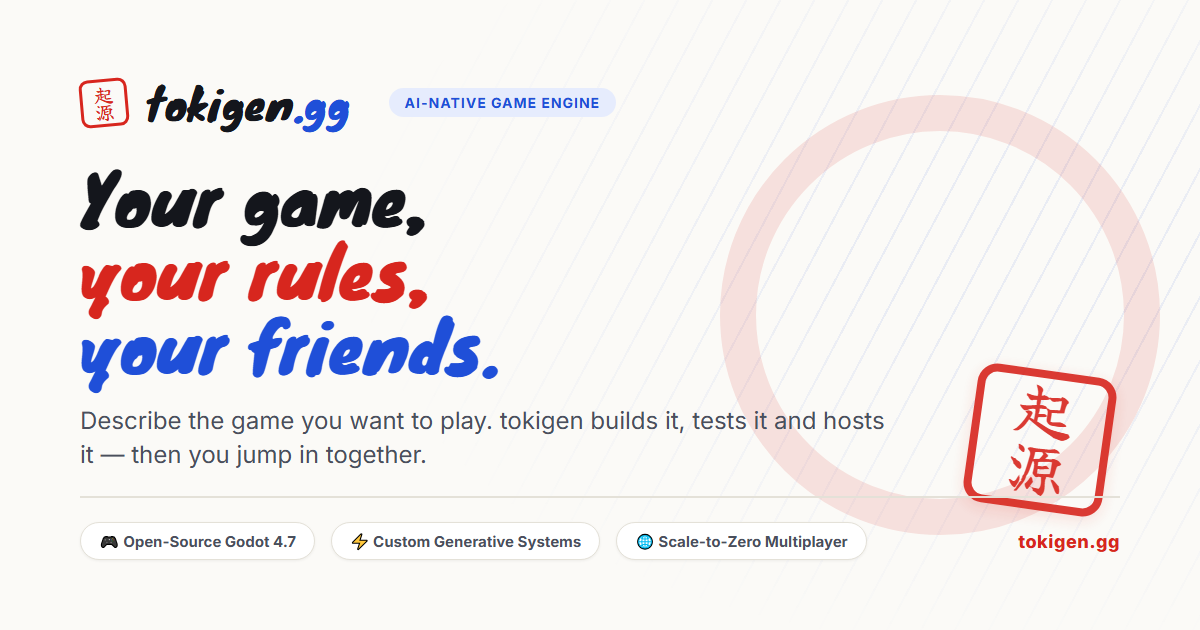
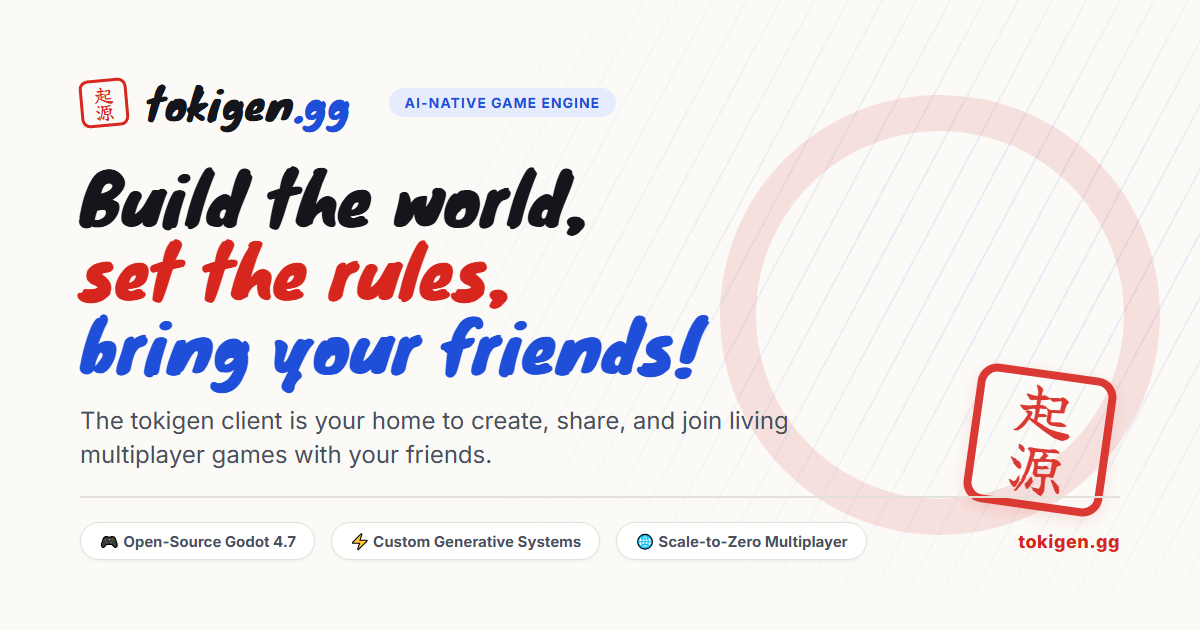
feat(copy): update tagline to 'Build the world, set the rules, bring your friends!' and emphasize client creation/sharing

Changed region(s): [[0.0617, 0.2714, 0.74, 0.754]]

diff --git a/src/i18n.ts b/src/i18n.ts
@@ -17,10 +17,10 @@ const STORAGE_KEY = 'tokigen_lang';
 type Dict = Record<string, string>;
 
 const en: Dict = {
-  'meta.title.home': 'tokigen.gg — Your game, your rules, your friends',
+  'meta.title.home': 'tokigen.gg — Build the world, set the rules, bring your friends!',
   'meta.title.studio': 'Web Studio (under construction) — tokigen.gg',
   'meta.description':
-    'Describe the game you want to play. tokigen builds it, tests it and hosts it — then you jump in with your friends.',
+    'The tokigen client is your home to create, share, and join living multiplayer games. Build the world, set the rules, bring your friends!',
 
   'nav.skip': 'Skip to content',
   'nav.label': 'Primary',
@@ -37,11 +37,11 @@ const en: Dict = {
   'brand.home': 'tokigen.gg home',
 
   'hero.eyebrow': 'AI-native multiplayer game creation',
-  'hero.line1': 'Your game,',
-  'hero.line2': 'your rules,',
-  'hero.line3': 'your friends.',
+  'hero.line1': 'Build the world,',
+  'hero.line2': 'set the rules,',
+  'hero.line3': 'bring your friends!',
   'hero.lead':
-    'Describe the game you want to play. tokigen builds it, tests it and hosts it — then you jump in together.',
+    'The tokigen client is your home to create custom games, share room codes, and jump into living multiplayer worlds with your friends.',
   'hero.cta': 'Get Started Now',
   'hero.secondary': 'See how it works',
   'hero.stampLabel': 'Kigen — origin',
@@ -52,7 +52,7 @@ const en: Dict = {
     'An open-source client, our own generative systems and multiplayer servers — three pillars working together.',
   'how.client.title': 'Open-source client',
   'how.client.body':
-    'The tokigen launcher is built on Godot Engine 4 and open-source tech like Jolt Physics, Terrain3D and LimboAI, released under the MIT licence. Your worlds are never locked in.',
+    'The tokigen client is built on Godot Engine 4 and open-source tech like Jolt Physics, Terrain3D, and LimboAI (MIT). Use it to create games with AI, share room codes, and join your friends.',
   'how.gen.title': 'Custom generative systems',
   'how.gen.body':
     'Describe it in your own words. Our generative pipeline designs the game, builds the world procedurally, play-tests it with AI bots and packages it for the launcher.',
@@ -97,7 +97,7 @@ const en: Dict = {
 
   'download.eyebrow': 'Download',
   'download.title': 'Get the tokigen launcher',
-  'download.sub': 'Free. Install once and join any game your friends create.',
+  'download.sub': 'Free. Install once to create games, share room codes, and join your friends.',
   'download.recommended': 'Recommended',
   'download.button': 'Download',
   'download.win.meta': 'Windows 10 / 11 · 64-bit',
@@ -108,7 +108,7 @@ const en: Dict = {
   'community.title': 'Join the community',
   'community.body': 'Share your games, find players and help shape tokigen.',
 
-  'footer.tagline': 'Your game, your rules, your friends.',
+  'footer.tagline': 'Build the world, set the rules, bring your friends!',
   'footer.credit': 'Built with Godot Engine and open source.',
 
   'studio.eyebrow': 'Web Studio',
@@ -127,10 +127,10 @@ const en: Dict = {
 };
 
 const ptBR: Dict = {
-  'meta.title.home': 'tokigen.gg — Seu jogo, suas regras, seus amigos',
+  'meta.title.home': 'tokigen.gg — Construa o mundo, defina as regras, traga seus amigos!',
   'meta.title.studio': 'Estúdio Web (em construção) — tokigen.gg',
   'meta.description':
-    'Descreva o jogo que você quer jogar. O tokigen cria, testa e hospeda — depois é só entrar com seus amigos.',
+    'O cliente tokigen é o seu lugar para criar, compartilhar e jogar mundos multiplayer vivos. Construa o mundo, defina as regras, traga seus amigos!',
 
   'nav.skip': 'Pular para o conteúdo',
   'nav.label': 'Principal',
@@ -147,11 +147,11 @@ const ptBR: Dict = {
   'brand.home': 'Página inicial do tokigen.gg',
 
   'hero.eyebrow': 'Criação de jogos multiplayer com IA',
-  'hero.line1': 'Seu jogo,',
-  'hero.line2': 'suas regras,',
-  'hero.line3': 'seus amigos.',
+  'hero.line1': 'Construa o mundo,',
+  'hero.line2': 'defina as regras,',
+  'hero.line3': 'traga seus amigos!',
   'hero.lead':
-    'Descreva o jogo que você quer jogar. O tokigen cria, testa e hospeda — depois é só entrar com a galera.',
+    'O cliente tokigen é o seu lugar para criar jogos personalizados, compartilhar códigos de sala e jogar mundos multiplayer vivos com seus amigos.',
   'hero.cta': 'Comece agora',
   'hero.secondary': 'Veja como funciona',
   'hero.stampLabel': 'Kigen — origem',
@@ -162,7 +162,7 @@ const ptBR: Dict = {
     'Um cliente de código aberto, sistemas generativos próprios e servidores multiplayer — três pilares trabalhando juntos.',
   'how.client.title': 'Cliente de código aberto',
   'how.client.body':
-    'O launcher do tokigen é construído sobre o Godot Engine 4 e tecnologias abertas como Jolt Physics, Terrain3D e LimboAI, com licença MIT. Seus mundos nunca ficam presos.',
+    'O cliente tokigen é construído sobre o Godot Engine 4 e tecnologias abertas como Jolt Physics, Terrain3D e LimboAI (MIT). Use-o para criar jogos com IA, compartilhar códigos e entrar com a galera.',
   'how.gen.title': 'Sistemas generativos próprios',
   'how.gen.body':
     'Descreva com suas palavras. Nosso pipeline generativo projeta o jogo, constrói o mundo de forma procedural, testa tudo com bots de IA e empacota para o launcher.',
@@ -207,7 +207,7 @@ const ptBR: Dict = {
 
   'download.eyebrow': 'Baixar',
   'download.title': 'Baixe o launcher do tokigen',
-  'download.sub': 'Grátis. Instale uma vez e entre em qualquer jogo criado pelos seus amigos.',
+  'download.sub': 'Grátis. Instale uma vez para criar jogos, compartilhar códigos de sala e jogar com amigos.',
   'download.recommended': 'Recomendado',
   'download.button': 'Baixar',
   'download.win.meta': 'Windows 10 / 11 · 64 bits',
@@ -218,7 +218,7 @@ const ptBR: Dict = {
   'community.title': 'Entre na comunidade',
   'community.body': 'Compartilhe seus jogos, encontre jogadores e ajude a moldar o tokigen.',
 
-  'footer.tagline': 'Seu jogo, suas regras, seus amigos.',
+  'footer.tagline': 'Construa o mundo, defina as regras, traga seus amigos!',
   'footer.credit': 'Feito com Godot Engine e código aberto.',
 
   'studio.eyebrow': 'Estúdio Web',
@@ -237,10 +237,10 @@ const ptBR: Dict = {
 };
 
 const ja: Dict = {
-  'meta.title.home': 'tokigen.gg — 君のゲーム、君のルール、君の仲間',
+  'meta.title.home': 'tokigen.gg — 世界を創り、ルールを決め、仲間を呼ぼう！',
   'meta.title.studio': 'Webスタジオ（工事中）— tokigen.gg',
   'meta.description':
-    '遊びたいゲームを言葉で伝えるだけ。tokigenがゲームを作り、テストし、サーバーまで用意します。あとは仲間と飛び込もう。',
+    'tokigenクライアントは、マルチプレイヤーゲームを創り、共有し、参加できるプラットフォームです。世界を創り、ルールを決め、仲間を呼ぼう！',
 
   'nav.skip': '本文へスキップ',
   'nav.label': 'メインメニュー',
@@ -257,11 +257,11 @@ const ja: Dict = {
   'brand.home': 'tokigen.gg ホーム',
 
   'hero.eyebrow': 'AIネイティブなマルチプレイヤーゲーム制作',
-  'hero.line1': '君のゲーム、',
-  'hero.line2': '君のルール、',
-  'hero.line3': '君の仲間。',
+  'hero.line1': '世界を創り、',
+  'hero.line2': 'ルールを決め、',
+  'hero.line3': '仲間を呼ぼう！',
   'hero.lead':
-    '遊びたいゲームを言葉で伝えるだけ。tokigenがゲームを作り、テストし、サーバーまで用意します。あとは仲間と一緒に飛び込もう。',
+    'tokigenクライアントは、AIと共に独自のゲームを創り、ルームコードで共有し、友達とマルチプレイヤーの世界へ飛び込めるオールインワン環境です。',
   'hero.cta': '今すぐ始める',
   'hero.secondary': '仕組みを見る',
   'hero.stampLabel': '起源',
@@ -271,7 +271,7 @@ const ja: Dict = {
   'how.sub': 'オープンソースのクライアント、独自の生成システム、そしてマルチプレイヤーサーバー。3つの柱で動いています。',
   'how.client.title': 'オープンソースのクライアント',
   'how.client.body':
-    'tokigenランチャーはGodot Engine 4をはじめ、Jolt Physics、Terrain3D、LimboAIなどのオープンソース技術で作られ、MITライセンスで公開されています。作った世界が囲い込まれることはありません。',
+    'tokigenクライアントはGodot Engine 4をはじめ、Jolt Physics、Terrain3D、LimboAI（MITライセンス）で構築。ゲームの制作から、ルームコードの共有、仲間との参加までこれひとつで行えます。',
   'how.gen.title': '独自の生成システム',
   'how.gen.body':
     '普段の言葉で説明するだけ。独自の生成パイプラインがゲームを設計し、ワールドをプロシージャルに構築し、AIボットでプレイテストしてから、ランチャー用にパッケージします。',
@@ -315,7 +315,7 @@ const ja: Dict = {
 
   'download.eyebrow': 'ダウンロード',
   'download.title': 'tokigenランチャーを入手',
-  'download.sub': '無料。一度インストールすれば、仲間が作ったどんなゲームにも参加できます。',
+  'download.sub': '無料。一度インストールすれば、ゲームの制作、共有、仲間とのプレイがすべて可能になります。',
   'download.recommended': 'おすすめ',
   'download.button': 'ダウンロード',
   'download.win.meta': 'Windows 10 / 11 · 64ビット',
@@ -326,7 +326,7 @@ const ja: Dict = {
   'community.title': 'コミュニティに参加',
   'community.body': 'ゲームを共有して、仲間を見つけて、tokigenを一緒に作ろう。',
 
-  'footer.tagline': '君のゲーム、君のルール、君の仲間。',
+  'footer.tagline': '世界を創り、ルールを決め、仲間を呼ぼう！',
   'footer.credit': 'Godot Engineとオープンソースで構築。',
 
   'studio.eyebrow': 'Webスタジオ',

diff --git a/index.html b/index.html
@@ -13,10 +13,10 @@
       } catch (e) {}
     </script>
     <meta name="viewport" content="width=device-width, initial-scale=1.0" />
-    <title>tokigen.gg — Your game, your rules, your friends</title>
+    <title>tokigen.gg — Build the world, set the rules, bring your friends!</title>
     <meta
       name="description"
-      content="Describe the game you want to play. tokigen builds it, tests it and hosts it — then you jump in with your friends."
+      content="The tokigen client is your home to create, share, and join living multiplayer games. Build the world, set the rules, bring your friends!"
     />
     <meta name="theme-color" media="(prefers-color-scheme: light)" content="#fbfaf7" />
     <meta name="theme-color" media="(prefers-color-scheme: dark)" content="#0e1016" />
@@ -25,24 +25,24 @@
     <link rel="canonical" href="%VITE_SITE_URL%" />
     <meta property="og:type" content="website" />
     <meta property="og:site_name" content="tokigen.gg" />
-    <meta property="og:title" content="tokigen.gg — Your game, your rules, your friends" />
+    <meta property="og:title" content="tokigen.gg — Build the world, set the rules, bring your friends!" />
     <meta
       property="og:description"
-      content="Describe the game you want to play. tokigen builds it, tests it and hosts it — then you jump in with your friends."
+      content="The tokigen client is your home to create, share, and join living multiplayer games. Build the world, set the rules, bring your friends!"
     />
     <meta property="og:url" content="%VITE_SITE_URL%" />
     <meta property="og:image" content="%VITE_SITE_URL%og-image.png" />
     <meta property="og:image:width" content="1200" />
     <meta property="og:image:height" content="630" />
-    <meta property="og:image:alt" content="tokigen.gg — Your game, your rules, your friends" />
+    <meta property="og:image:alt" content="tokigen.gg — Build the world, set the rules, bring your friends!" />
     <meta property="og:locale" content="en_GB" />
     <meta property="og:locale:alternate" content="pt_BR" />
     <meta property="og:locale:alternate" content="ja_JP" />
     <meta name="twitter:card" content="summary_large_image" />
-    <meta name="twitter:title" content="tokigen.gg — Your game, your rules, your friends" />
+    <meta name="twitter:title" content="tokigen.gg — Build the world, set the rules, bring your friends!" />
     <meta
       name="twitter:description"
-      content="Describe the game you want to play. tokigen builds it, tests it and hosts it — then you jump in with your friends."
+      content="The tokigen client is your home to create, share, and join living multiplayer games. Build the world, set the rules, bring your friends!"
     />
     <meta name="twitter:image" content="%VITE_SITE_URL%og-image.png" />
 
@@ -114,12 +114,12 @@
         <div class="container hero-inner">
           <p class="eyebrow" data-i18n="hero.eyebrow">AI-native multiplayer game creation</p>
           <h1 class="brush-title hero-title">
-            <span class="hero-line" data-i18n="hero.line1">Your game,</span>
-            <span class="hero-line hero-line-red" data-i18n="hero.line2">your rules,</span>
-            <span class="hero-line hero-line-blue" data-i18n="hero.line3">your friends.</span>
+            <span class="hero-line" data-i18n="hero.line1">Build the world,</span>
+            <span class="hero-line hero-line-red" data-i18n="hero.line2">set the rules,</span>
+            <span class="hero-line hero-line-blue" data-i18n="hero.line3">bring your friends!</span>
           </h1>
           <p class="hero-lead" data-i18n="hero.lead">
-            Describe the game you want to play. tokigen builds it, tests it and hosts it — then you jump in together.
+            The tokigen client is your home to create custom games, share room codes, and jump into living multiplayer worlds with your friends.
           </p>
           <div class="hero-actions">
             <a href="#download" id="cta-get-started" class="btn btn-cta btn-lg" data-i18n="hero.cta">Get Started Now</a>
@@ -148,8 +148,8 @@
               <span class="kanji-badge kanji-blue" aria-hidden="true">開</span>
               <h3 data-i18n="how.client.title">Open-source client</h3>
               <p data-i18n="how.client.body">
-                The tokigen launcher is built on Godot Engine 4 and open-source tech like Jolt Physics, Terrain3D and
-                LimboAI, released under the MIT licence. Your worlds are never locked in.
+                The tokigen client is built on Godot Engine 4 and open-source tech like Jolt Physics, Terrain3D, and
+                LimboAI (MIT). Use it to create games with AI, share room codes, and join your friends.
               </p>
               <ul class="chips">
                 <li>Godot 4.7</li>
@@ -375,7 +375,7 @@
           <span class="hanko hanko-sm" aria-hidden="true"><span>起源</span></span>
           <div>
             <span class="wordmark">tokigen<span class="wordmark-tld">.gg</span></span>
-            <p data-i18n="footer.tagline">Your game, your rules, your friends.</p>
+            <p data-i18n="footer.tagline">Build the world, set the rules, bring your friends!</p>
           </div>
         </div>
         <nav class="footer-links" aria-label="Footer">

diff --git a/tests/web_ui.spec.ts b/tests/web_ui.spec.ts
@@ -3,14 +3,19 @@ import { test, expect } from '@playwright/test';
 test.describe('tokigen.gg Web Suite', () => {
   test('Landing page loads with tokigen branding and hero copy', async ({ page }) => {
     await page.goto('./');
-    await expect(page).toHaveTitle(/tokigen\.gg — Your game, your rules, your friends/i);
+    await expect(page).toHaveTitle(/tokigen\.gg — Build the world, set the rules, bring your friends!/i);
 
     // Hero headline lines
     const heroTitle = page.locator('.hero-title');
     await expect(heroTitle).toBeVisible();
-    await expect(heroTitle).toContainText('Your game,');
-    await expect(heroTitle).toContainText('your rules,');
-    await expect(heroTitle).toContainText('your friends.');
+    await expect(heroTitle).toContainText('Build the world,');
+    await expect(heroTitle).toContainText('set the rules,');
+    await expect(heroTitle).toContainText('bring your friends!');
+
+    // Hero lead text mentions creating, sharing and joining
+    const heroLead = page.locator('.hero-lead');
+    await expect(heroLead).toContainText('create custom games');
+    await expect(heroLead).toContainText('share room codes');
 
     // Kigen Hanko seal
     const heroHanko = page.locator('.hanko-hero');
@@ -115,20 +120,21 @@ test.describe('tokigen.gg Web Suite', () => {
     // Switch to Japanese
     await langSelect.selectOption('ja');
     await expect(page.locator('html')).toHaveAttribute('lang', 'ja');
-    await expect(page).toHaveTitle(/tokigen\.gg — 君のゲーム、君のルール、君の仲間/i);
-    await expect(page.locator('.hero-title')).toContainText('君のゲーム、');
+    await expect(page).toHaveTitle(/tokigen\.gg — 世界を創り、ルールを決め、仲間を呼ぼう！/i);
+    await expect(page.locator('.hero-title')).toContainText('世界を創り、');
     await expect(page.locator('#cta-get-started')).toHaveText('今すぐ始める');
 
     // Switch to Brazilian Portuguese
     await langSelect.selectOption('pt-BR');
     await expect(page.locator('html')).toHaveAttribute('lang', 'pt-BR');
-    await expect(page).toHaveTitle(/tokigen\.gg — Seu jogo, suas regras, seus amigos/i);
-    await expect(page.locator('.hero-title')).toContainText('Seu jogo,');
+    await expect(page).toHaveTitle(/tokigen\.gg — Construa o mundo, defina as regras, traga seus amigos!/i);
+    await expect(page.locator('.hero-title')).toContainText('Construa o mundo,');
     await expect(page.locator('#cta-get-started')).toHaveText('Comece agora');
 
     // Switch back to English
     await langSelect.selectOption('en');
     await expect(page.locator('html')).toHaveAttribute('lang', 'en');
+    await expect(page.locator('.hero-title')).toContainText('Build the world,');
     await expect(page.locator('#cta-get-started')).toHaveText('Get Started Now');
   });
 

diff --git a/studio.html b/studio.html
@@ -16,7 +16,7 @@
     <title>Web Studio (under construction) — tokigen.gg</title>
     <meta
       name="description"
-      content="Describe the game you want to play. tokigen builds it, tests it and hosts it — then you jump in with your friends."
+      content="The tokigen client is your home to create, share, and join living multiplayer games. Build the world, set the rules, bring your friends!"
     />
     <meta name="theme-color" media="(prefers-color-scheme: light)" content="#fbfaf7" />
     <meta name="theme-color" media="(prefers-color-scheme: dark)" content="#0e1016" />
@@ -137,7 +137,7 @@
           <span class="hanko hanko-sm" aria-hidden="true"><span>起源</span></span>
           <div>
             <span class="wordmark">tokigen<span class="wordmark-tld">.gg</span></span>
-            <p data-i18n="footer.tagline">Your game, your rules, your friends.</p>
+            <p data-i18n="footer.tagline">Build the world, set the rules, bring your friends!</p>
           </div>
         </div>
         <nav class="footer-links" aria-label="Footer">

diff --git a/scripts/generate_brand_assets.js b/scripts/generate_brand_assets.js
@@ -172,12 +172,12 @@ async function generateAssets() {
 
     <div class="main">
       <div class="headline">
-        <span class="hl-white">Your game,</span><br>
-        <span class="hl-red">your rules,</span><br>
-        <span class="hl-blue">your friends.</span>
+        <span class="hl-white">Build the world,</span><br>
+        <span class="hl-red">set the rules,</span><br>
+        <span class="hl-blue">bring your friends!</span>
       </div>
       <p class="lead">
-        Describe the game you want to play. tokigen builds it, tests it and hosts it — then you jump in together.
+        The tokigen client is your home to create, share, and join living multiplayer games with your friends.
       </p>
     </div>
 
